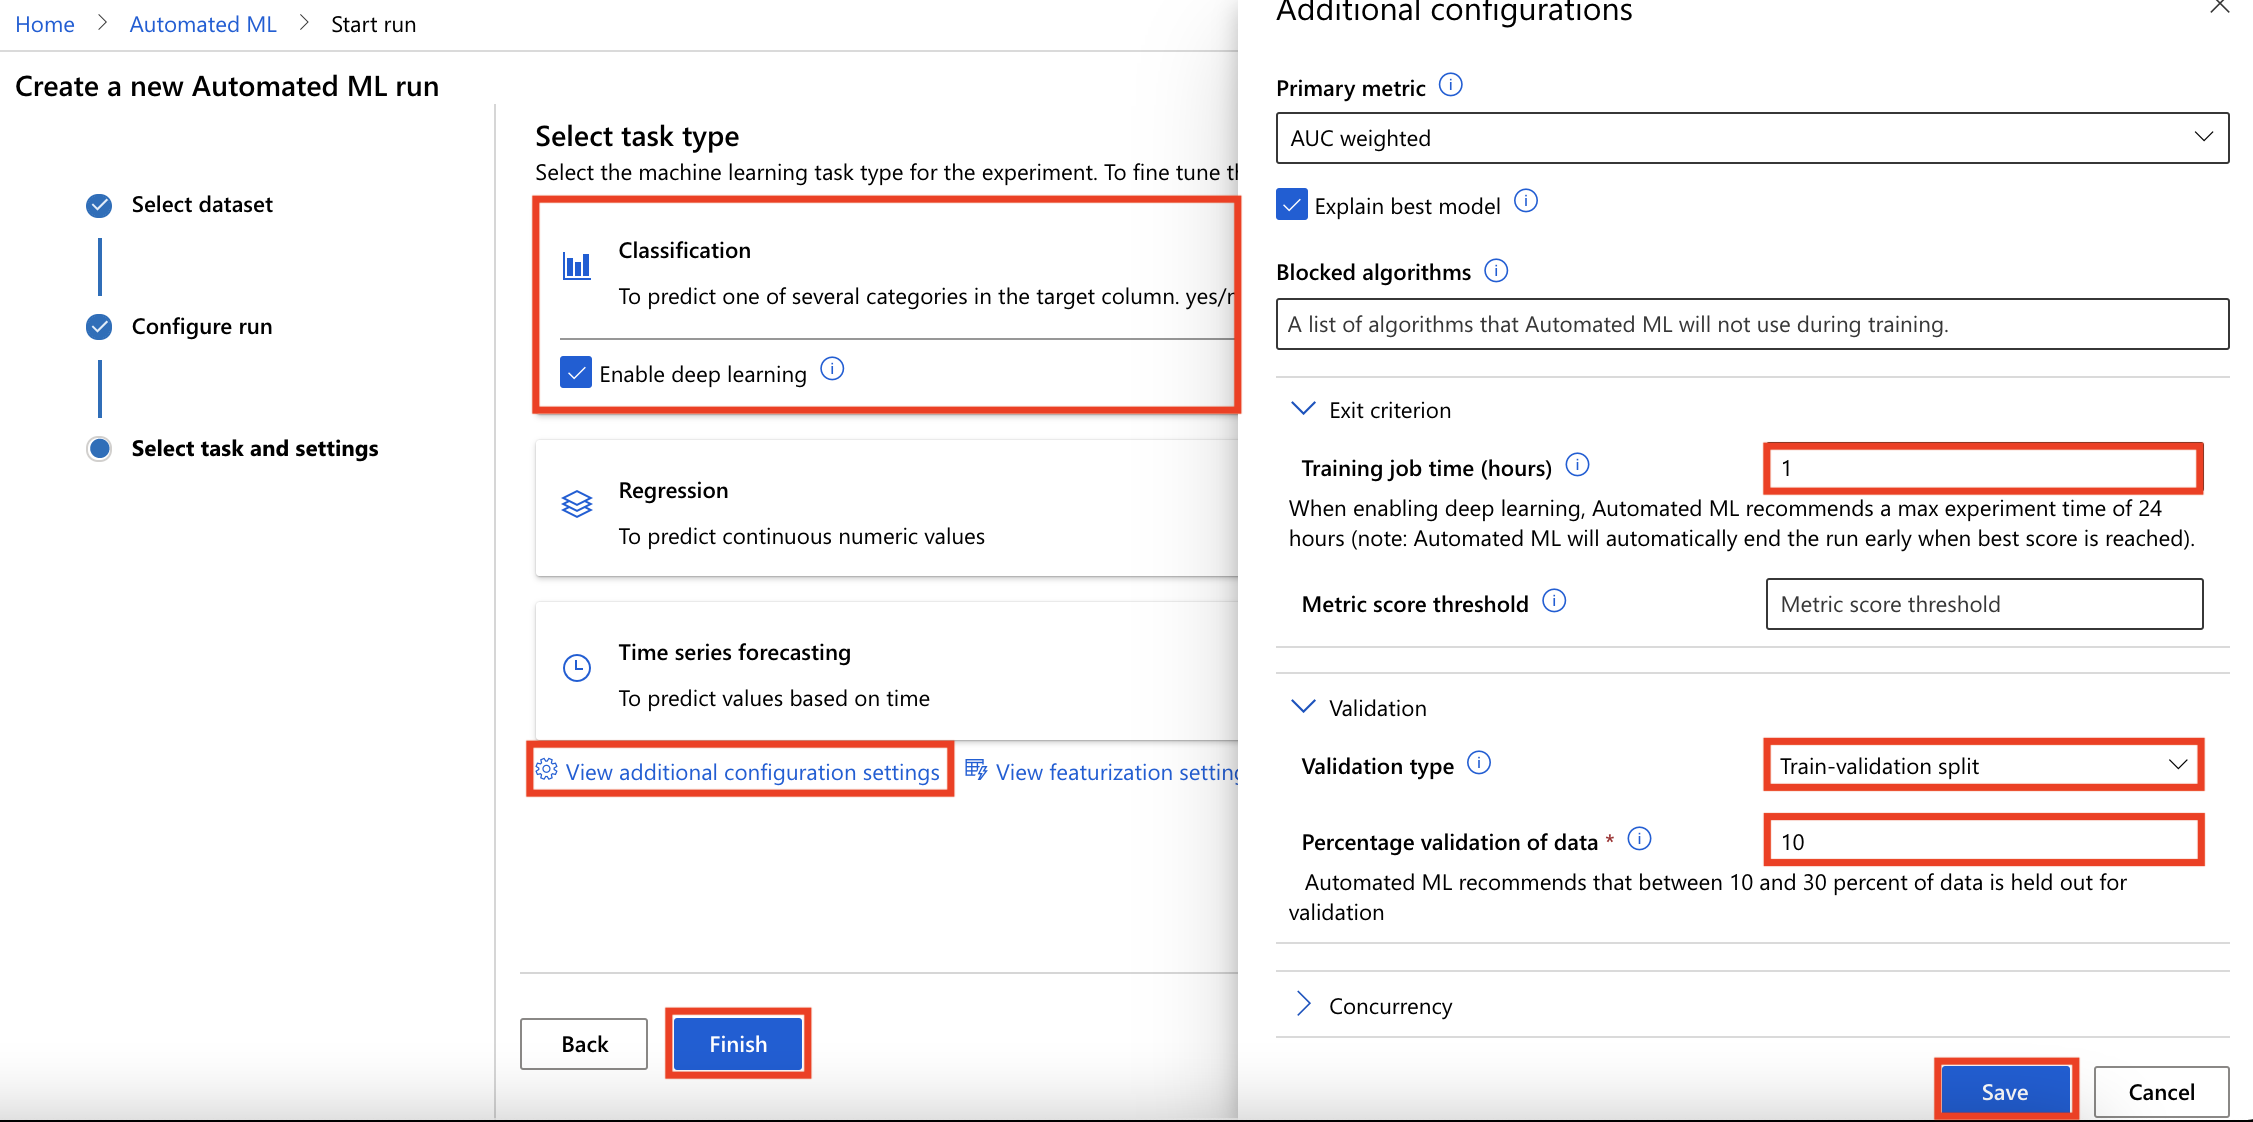
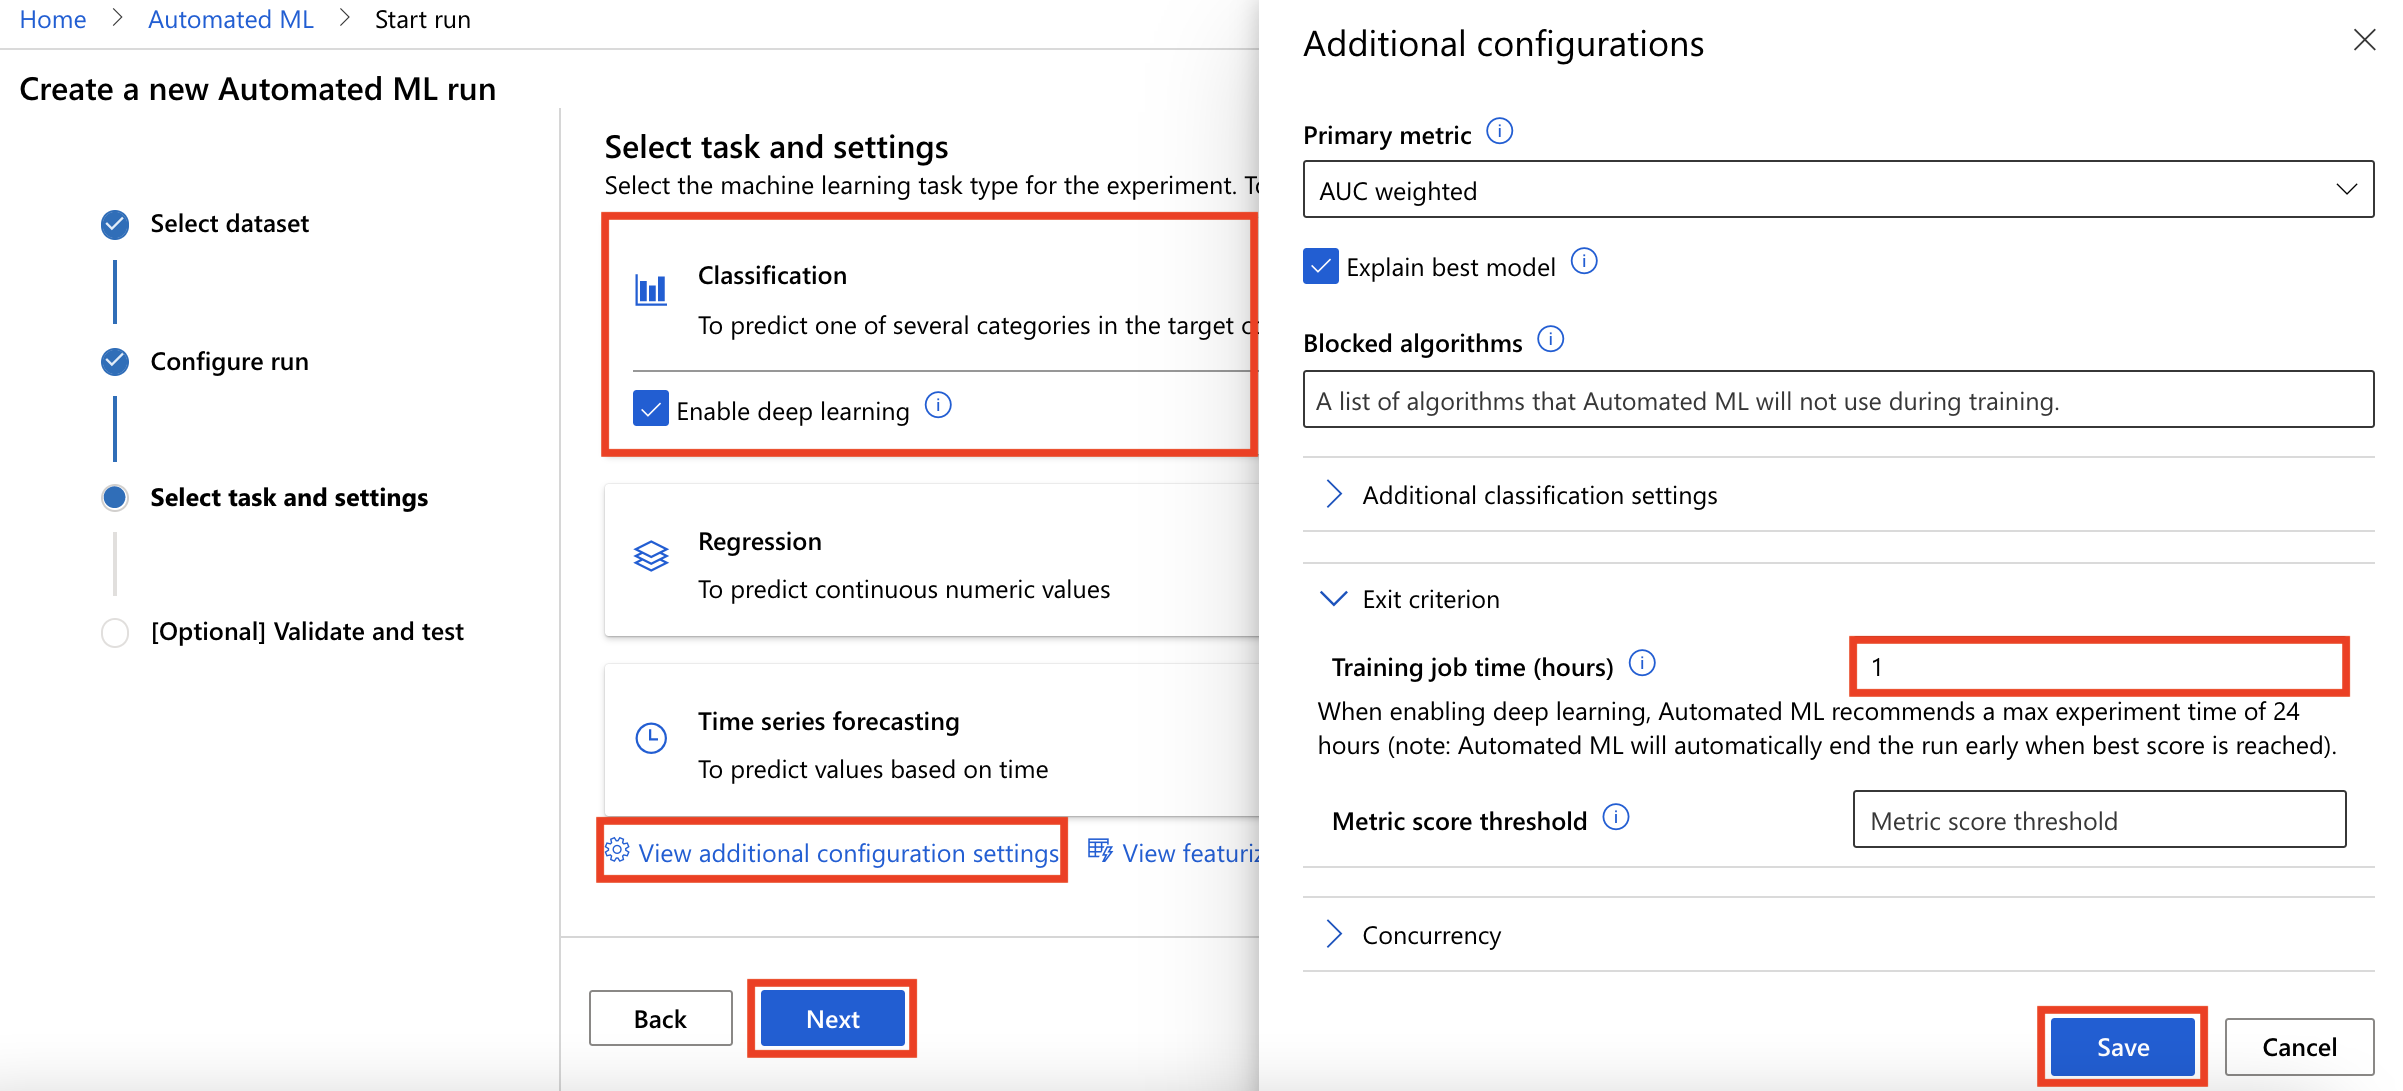
fix issue #60 and #58

diff --git a/Hands-on lab/HOL step-by step - Analyzing text with Azure Machine Learning and Cognitive Services.md b/Hands-on lab/HOL step-by step - Analyzing text with Azure Machine Learning and Cognitive Services.md
@@ -162,12 +162,17 @@ In this exercise, you learn how to create, run, and explore automated machine le
 4. In the `Additional configurations` dialog make the following selections and then select **Save**:
 
    - Training job timeout (hours): **1**
+
+5. In the `Select task type` page select **Next**.
+
+  ![In the select task type page the above listed values are filled in and the button named next is highlighted.](media/automl-04.png "Select task type")
+
+6. In the `Select the validation and test type` page make the following selections and then select **Finish** to start the AutoML experiment run.
+
    - Validation type: **Train-validation split**
    - Percentage validation of data: **10**
 
-5. In the `Select task type` page select **Finish** to start the AutoML experiment run.
-
-  ![In the select task type page the above listed values are filled in and the button named finish is highlighted.](media/automl-04.png "Select task type")
+  ![In the select the validation and test type the above listed values are filled in and the button named finish is highlighted.](media/automl-04b.png "Select the validation and test type")
 
 ### Task 3: Monitor automated ML run
 
